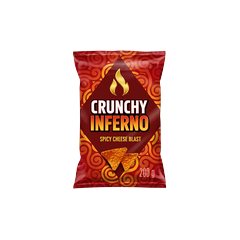
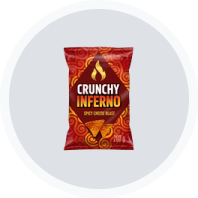
Show the after example inside its actual circular UI slot
Swaps the plain cutout for a screenshot of the processed icon placed in
the real 60x60 circular slot from Figma, so the README shows the actual
end result instead of just an isolated PNG.

diff --git a/README.md b/README.md
@@ -11,7 +11,7 @@ hand, this automates the repetitive part (background removal, cropping,
 resizing, centering, renaming) so the design work stays focused on UX and
 interaction, not production busywork.
 
-| Before | After |
+| Before | After (in the actual 60×60 circular slot) |
 | --- | --- |
 | ![before](examples/before.png) | ![after](examples/after.png) |
 
